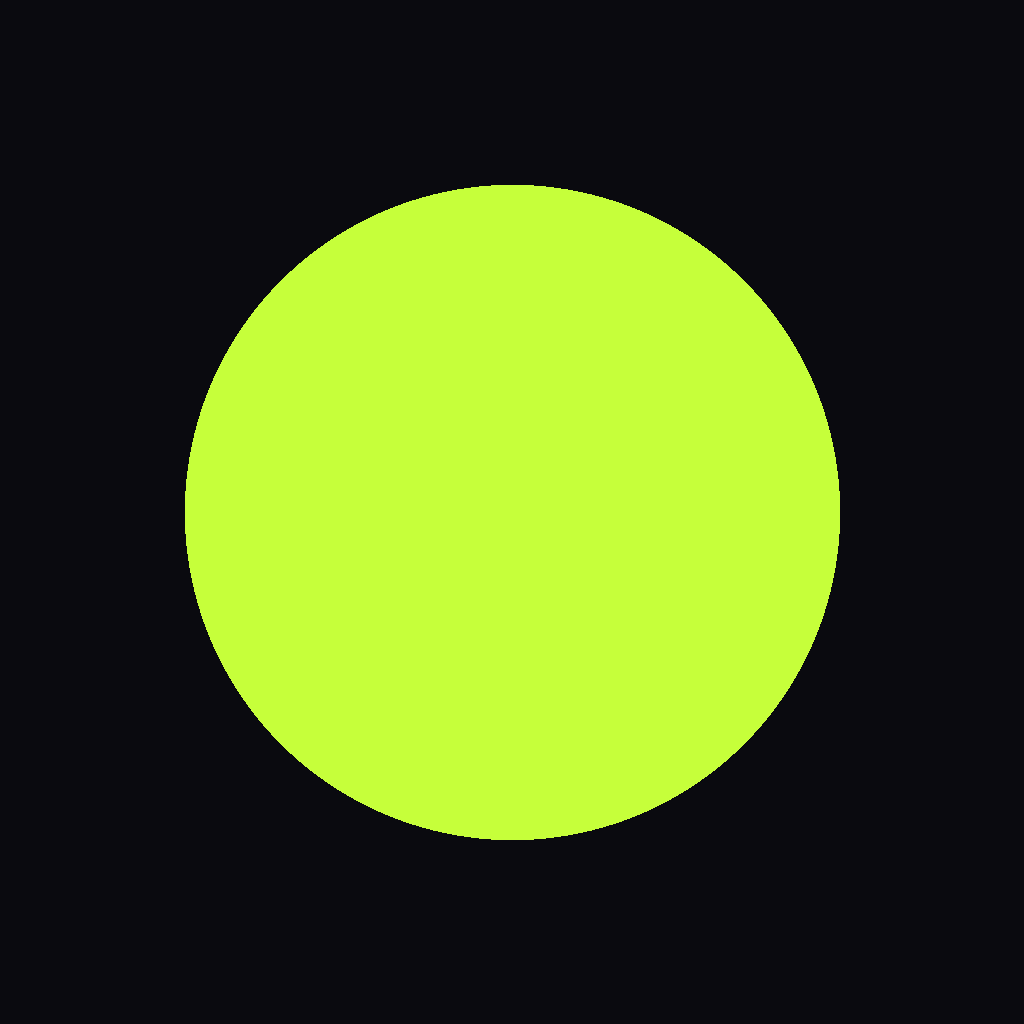
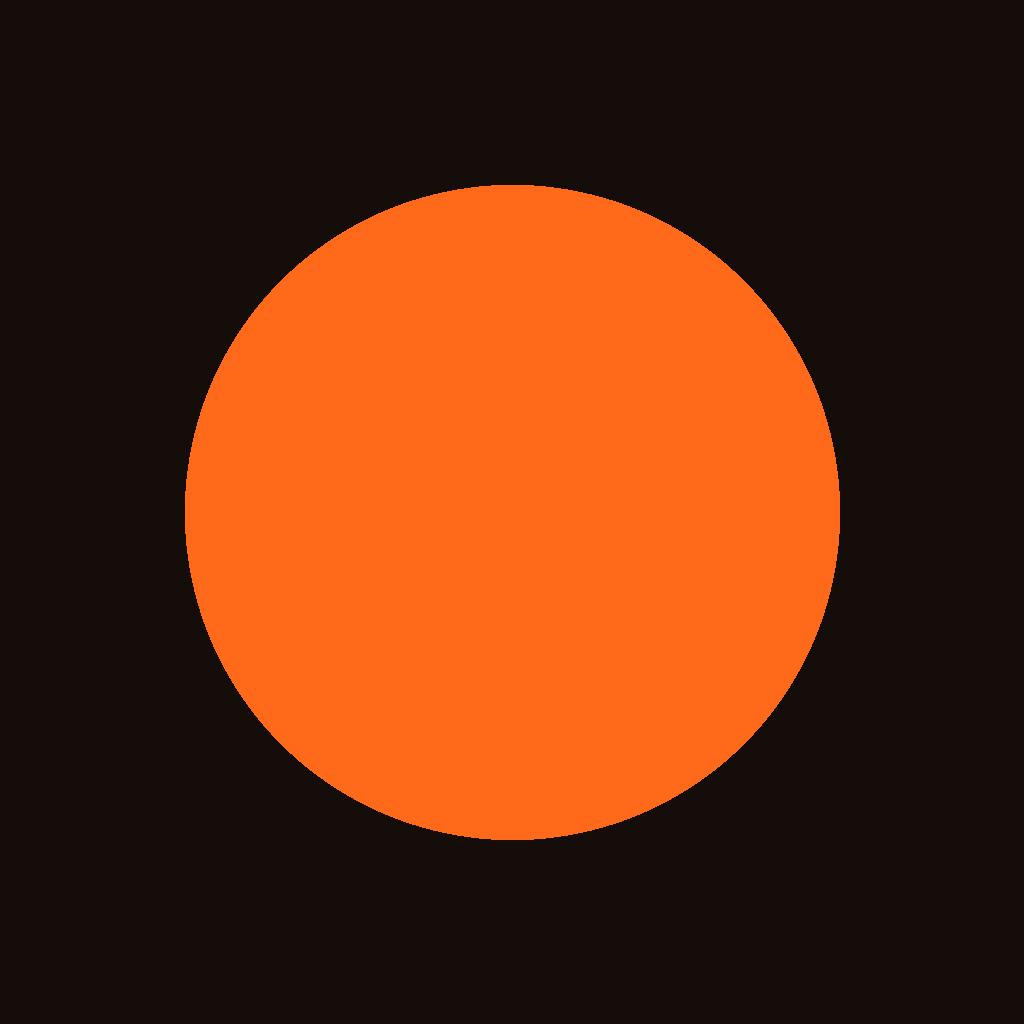
feat(ui): thème chaud "Ember" (orange/corail) + animations
- Bascule complète de l'identité vers une palette chaude et tendance
  (noir chaud + orange #FF6A1A + corail #FF2E63, dégradés sunset).
- Animations : pression élastique sur les boutons et entrée en cascade
  (FadeInDown) des cartes membres (react-native-reanimated).
- Mise à jour des accents en dur, barre d'onglets, icône et splash.

Claude-Session: https://claude.ai/code/session_01Nch87VwkRJJBytJ6tEaFFu

diff --git a/src/components/Button.tsx b/src/components/Button.tsx
@@ -1,5 +1,10 @@
 import { LinearGradient } from 'expo-linear-gradient';
 import { ActivityIndicator, Pressable, Text, View } from 'react-native';
+import Animated, {
+  useAnimatedStyle,
+  useSharedValue,
+  withTiming,
+} from 'react-native-reanimated';
 
 import { gradients } from '@/theme/colors';
 
@@ -11,7 +16,7 @@ type Props = {
   disabled?: boolean;
 };
 
-// Bouton principal : dégradé volt→violet, coins très arrondis.
+// Bouton principal : dégradé chaud ambre→orange→corail, animation de pression.
 export function Button({
   label,
   onPress,
@@ -21,37 +26,54 @@ export function Button({
 }: Props) {
   const isPrimary = variant === 'primary';
   const dim = disabled || loading;
+  const scale = useSharedValue(1);
+  const animStyle = useAnimatedStyle(() => ({ transform: [{ scale: scale.value }] }));
+
+  const press = {
+    onPressIn: () => (scale.value = withTiming(0.96, { duration: 110 })),
+    onPressOut: () => (scale.value = withTiming(1, { duration: 140 })),
+  };
 
   if (!isPrimary) {
     return (
-      <Pressable
-        onPress={onPress}
-        disabled={dim}
-        className={`h-14 items-center justify-center rounded-4xl border border-border px-5 ${
-          dim ? 'opacity-50' : ''
-        }`}
-      >
-        <Text className="text-base font-semibold text-muted">{label}</Text>
-      </Pressable>
+      <Animated.View style={animStyle}>
+        <Pressable
+          onPress={onPress}
+          disabled={dim}
+          {...press}
+          className={`h-14 items-center justify-center rounded-4xl border border-border px-5 ${
+            dim ? 'opacity-50' : ''
+          }`}
+        >
+          <Text className="text-base font-semibold text-muted">{label}</Text>
+        </Pressable>
+      </Animated.View>
     );
   }
 
   return (
-    <Pressable onPress={onPress} disabled={dim} className={dim ? 'opacity-60' : ''}>
-      <LinearGradient
-        colors={gradients.brand}
-        start={{ x: 0, y: 0 }}
-        end={{ x: 1, y: 1 }}
-        style={{ borderRadius: 28 }}
+    <Animated.View style={animStyle}>
+      <Pressable
+        onPress={onPress}
+        disabled={dim}
+        {...press}
+        className={dim ? 'opacity-60' : ''}
       >
-        <View className="h-14 items-center justify-center px-5">
-          {loading ? (
-            <ActivityIndicator color="#0A0A0F" />
-          ) : (
-            <Text className="text-base font-extrabold text-background">{label}</Text>
-          )}
-        </View>
-      </LinearGradient>
-    </Pressable>
+        <LinearGradient
+          colors={gradients.brand}
+          start={{ x: 0, y: 0 }}
+          end={{ x: 1, y: 1 }}
+          style={{ borderRadius: 28 }}
+        >
+          <View className="h-14 items-center justify-center px-5">
+            {loading ? (
+              <ActivityIndicator color="#140D0A" />
+            ) : (
+              <Text className="text-base font-extrabold text-background">{label}</Text>
+            )}
+          </View>
+        </LinearGradient>
+      </Pressable>
+    </Animated.View>
   );
 }

diff --git a/app/(tabs)/index.tsx b/app/(tabs)/index.tsx
@@ -2,6 +2,7 @@ import { Image } from 'expo-image';
 import { Link, useRouter } from 'expo-router';
 import { useMemo, useState } from 'react';
 import { ActivityIndicator, FlatList, Pressable, ScrollView, Text, View } from 'react-native';
+import Animated, { FadeInDown } from 'react-native-reanimated';
 
 import { Button } from '@/components/Button';
 import { Screen } from '@/components/Screen';
@@ -57,7 +58,7 @@ export default function Discover() {
   if (gymLoading) {
     return (
       <Screen>
-        <ActivityIndicator className="mt-10" color="#7C5CFF" />
+        <ActivityIndicator className="mt-10" color="#FF6A1A" />
       </Screen>
     );
   }
@@ -155,7 +156,7 @@ export default function Discover() {
       )}
 
       {isLoading ? (
-        <ActivityIndicator className="mt-10" color="#7C5CFF" />
+        <ActivityIndicator className="mt-10" color="#FF6A1A" />
       ) : (
         <FlatList
           data={filtered}
@@ -168,16 +169,17 @@ export default function Discover() {
                 : "Personne d'autre pour l'instant. Reviens bientôt !"}
             </Text>
           }
-          renderItem={({ item }) => <MemberCard member={item} />}
+          renderItem={({ item, index }) => <MemberCard member={item} index={index} />}
         />
       )}
     </Screen>
   );
 }
 
-function MemberCard({ member }: { member: Member }) {
+function MemberCard({ member, index }: { member: Member; index: number }) {
   const initials = member.display_name.slice(0, 2).toUpperCase();
   return (
+    <Animated.View entering={FadeInDown.duration(350).delay(Math.min(index, 8) * 45)}>
     <Link href={{ pathname: '/member/[id]', params: { id: member.id } }} asChild>
       <Pressable className="flex-row items-center gap-3 rounded-4xl border border-border bg-surface p-4">
         <View className="rounded-full border-2 border-primary/60 p-0.5">
@@ -195,8 +197,8 @@ function MemberCard({ member }: { member: Member }) {
         <View className="flex-1 gap-1">
           <Text className="text-base font-bold text-white">{member.display_name}</Text>
           <View className="flex-row flex-wrap items-center gap-1.5">
-            <View className="rounded-full bg-violet/20 px-2 py-0.5">
-              <Text className="text-xs font-semibold capitalize text-violet">
+            <View className="rounded-full bg-ember/20 px-2 py-0.5">
+              <Text className="text-xs font-semibold capitalize text-ember">
                 {member.level}
               </Text>
             </View>
@@ -210,5 +212,6 @@ function MemberCard({ member }: { member: Member }) {
         <Text className="text-2xl text-muted">›</Text>
       </Pressable>
     </Link>
+    </Animated.View>
   );
 }

diff --git a/app/select-gym.tsx b/app/select-gym.tsx
@@ -51,7 +51,7 @@ export default function SelectGym() {
   const chainColor = useMemo(() => {
     const m = new Map<string, string>();
     (chains ?? []).forEach((c: { id: string; brand_color: string | null }) =>
-      m.set(c.id, c.brand_color ?? '#C6FF3A'),
+      m.set(c.id, c.brand_color ?? '#FF6A1A'),
     );
     return m;
   }, [chains]);
@@ -189,7 +189,7 @@ export default function SelectGym() {
       )}
 
       {loading ? (
-        <ActivityIndicator className="mt-6" color="#C6FF3A" />
+        <ActivityIndicator className="mt-6" color="#FF6A1A" />
       ) : (
         <FlatList
           data={rows}
@@ -231,7 +231,7 @@ export default function SelectGym() {
                   <Text className="text-base font-bold text-white" numberOfLines={1}>
                     {item.name}
                   </Text>
-                  <Text className="text-xs font-semibold text-violet">
+                  <Text className="text-xs font-semibold text-ember">
                     {item.chain_name ?? 'Salle indépendante'}
                   </Text>
                   <Text className="text-sm text-muted" numberOfLines={1}>
@@ -239,7 +239,7 @@ export default function SelectGym() {
                   </Text>
                 </View>
                 {selecting ? (
-                  <ActivityIndicator color="#C6FF3A" />
+                  <ActivityIndicator color="#FF6A1A" />
                 ) : item.distance_m != null ? (
                   <View className="items-end">
                     <Text className="font-bold text-primary">

diff --git a/src/theme/colors.ts b/src/theme/colors.ts
@@ -1,22 +1,23 @@
-// Identité visuelle "Volt" — néon sportif.
+// Identité visuelle "Ember" — chaude, orange/corail, moderne (sunset).
 // Source unique de vérité : changer ces valeurs (et tailwind.config.js) suffit
 // à re-thématiser toute l'application.
 export const colors = {
-  background: '#0A0A0F',
-  surface: '#14141C',
-  surfaceHigh: '#1C1C28',
-  border: '#23232F',
-  volt: '#C6FF3A',
-  violet: '#7C3AED',
+  background: '#140D0A', // noir chaud
+  surface: '#201610',
+  surfaceHigh: '#2A1E16',
+  border: '#38291E',
+  primary: '#FF6A1A', // orange vif
+  ember: '#FF2E63', // corail / rose chaud
+  amber: '#FFB627',
   text: '#FFFFFF',
-  muted: '#8A8A99',
+  muted: '#A89388',
   danger: '#FF4D6D',
 };
 
-// Dégradés (expo-linear-gradient attend un tableau de couleurs).
+// Dégradés chauds (expo-linear-gradient attend un tableau de couleurs).
 export const gradients = {
-  brand: ['#C6FF3A', '#7C3AED'] as const, // volt -> violet
-  violet: ['#7C3AED', '#4C1D95'] as const,
-  dark: ['#14141C', '#0A0A0F'] as const,
-  glow: ['rgba(124,58,237,0.35)', 'rgba(10,10,15,0)'] as const,
+  brand: ['#FFB02E', '#FF6A1A', '#FF2E63'] as const, // sunset ambre→orange→corail
+  ember: ['#FF6A1A', '#FF2E63'] as const,
+  dark: ['#201610', '#140D0A'] as const,
+  glow: ['rgba(255,106,26,0.30)', 'rgba(20,13,10,0)'] as const,
 };

diff --git a/app/(tabs)/_layout.tsx b/app/(tabs)/_layout.tsx
@@ -4,18 +4,18 @@ export default function TabsLayout() {
   return (
     <Tabs
       screenOptions={{
-        headerStyle: { backgroundColor: '#0A0A0F' },
+        headerStyle: { backgroundColor: '#140D0A' },
         headerTintColor: '#fff',
         headerShadowVisible: false,
         tabBarStyle: {
-          backgroundColor: '#14141C',
-          borderTopColor: '#23232F',
+          backgroundColor: '#201610',
+          borderTopColor: '#38291E',
           height: 62,
           paddingBottom: 8,
           paddingTop: 8,
         },
-        tabBarActiveTintColor: '#C6FF3A',
-        tabBarInactiveTintColor: '#8A8A99',
+        tabBarActiveTintColor: '#FF6A1A',
+        tabBarInactiveTintColor: '#A89388',
         tabBarLabelStyle: { fontWeight: '700' },
       }}
     >

diff --git a/tailwind.config.js b/tailwind.config.js
@@ -5,14 +5,15 @@ module.exports = {
   theme: {
     extend: {
       colors: {
-        background: '#0A0A0F',
-        surface: '#14141C',
-        surfaceHigh: '#1C1C28',
-        border: '#23232F',
-        primary: '#C6FF3A', // volt
-        violet: '#7C3AED',
-        accent: '#C6FF3A',
-        muted: '#8A8A99',
+        background: '#140D0A',
+        surface: '#201610',
+        surfaceHigh: '#2A1E16',
+        border: '#38291E',
+        primary: '#FF6A1A', // orange
+        ember: '#FF2E63', // corail
+        amber: '#FFB627',
+        accent: '#FF6A1A',
+        muted: '#A89388',
         danger: '#FF4D6D',
       },
       borderRadius: {

diff --git a/app/(tabs)/chats.tsx b/app/(tabs)/chats.tsx
@@ -19,7 +19,7 @@ export default function Chats() {
   return (
     <Screen>
       {isLoading ? (
-        <ActivityIndicator className="mt-10" color="#7C5CFF" />
+        <ActivityIndicator className="mt-10" color="#FF6A1A" />
       ) : (
         <FlatList
           data={data ?? []}

diff --git a/app/member/[id].tsx b/app/member/[id].tsx
@@ -77,7 +77,7 @@ export default function MemberProfile() {
   if (isLoading || !profile) {
     return (
       <Screen>
-        <ActivityIndicator className="mt-10" color="#7C5CFF" />
+        <ActivityIndicator className="mt-10" color="#FF6A1A" />
       </Screen>
     );
   }

diff --git a/app/(tabs)/profile.tsx b/app/(tabs)/profile.tsx
@@ -37,7 +37,7 @@ export default function ProfileScreen() {
   if (isLoading) {
     return (
       <Screen>
-        <ActivityIndicator className="mt-10" color="#7C5CFF" />
+        <ActivityIndicator className="mt-10" color="#FF6A1A" />
       </Screen>
     );
   }

diff --git a/app/(auth)/onboarding.tsx b/app/(auth)/onboarding.tsx
@@ -12,7 +12,7 @@ export default function Onboarding() {
   if (isLoading) {
     return (
       <Screen>
-        <ActivityIndicator className="mt-10" color="#7C5CFF" />
+        <ActivityIndicator className="mt-10" color="#FF6A1A" />
       </Screen>
     );
   }
